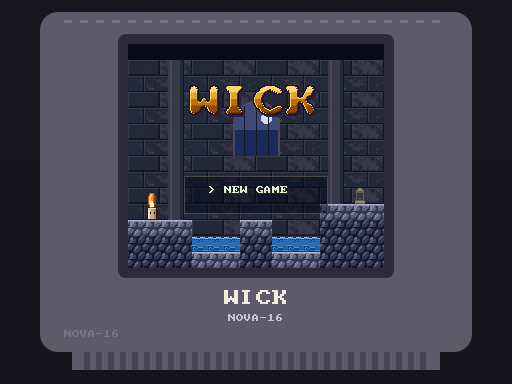
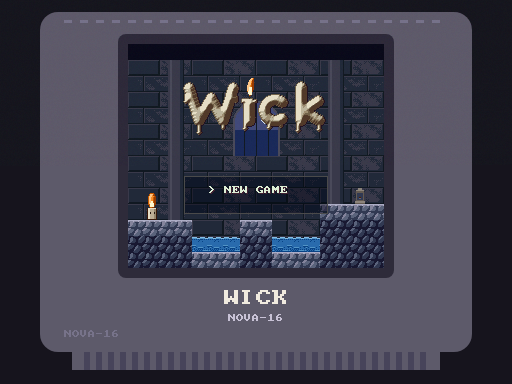
Wick: the title's letters are candle wax
"Wick" in thick round strokes of wax with drips running down; the i is a
candle, with a wick and a flame where its dot would be. A new label.

Claude-Session: https://claude.ai/code/session_01KDMa8M7iB8Yq4tfYxi5Re2

Changed region(s): [[0.3438, 0.1875, 0.6562, 0.3438]]

diff --git a/carts/src/wick/code.js b/carts/src/wick/code.js
@@ -12,7 +12,7 @@ const SHADOW = 1, PANEL = 3, RED = 6, DIM = 10, GREEN = 11, CYAN = 13, GOLD = 14
 const ART = {
   tiles: {},
   sprites: {"bob": {"pal": 2, "size": 16, "tile": 910}, "drip": {"pal": 1, "size": 8, "tile": 902}, "ember": {"pal": 0, "size": 8, "tile": 900}, "fall": {"pal": 0, "size": 32, "tile": 836}, "gear": {"pal": 2, "size": 16, "tile": 908}, "gust": {"pal": 2, "size": 8, "tile": 917}, "jump": {"pal": 0, "size": 32, "tile": 832}, "land": {"pal": 0, "size": 32, "tile": 844}, "link": {"pal": 2, "size": 8, "tile": 916}, "puff": {"pal": 0, "size": 32, "tile": 896}, "rain0": {"pal": 1, "size": 16, "tile": 932}, "rain1": {"pal": 1, "size": 16, "tile": 934}, "run0": {"pal": 0, "size": 32, "tile": 776}, "run1": {"pal": 0, "size": 32, "tile": 780}, "slide": {"pal": 0, "size": 32, "tile": 840}, "snuffer": {"pal": 2, "size": 32, "tile": 960}, "soot": {"pal": 0, "size": 8, "tile": 901}, "steam0": {"pal": 2, "size": 16, "tile": 904}, "steam1": {"pal": 2, "size": 16, "tile": 906}, "wick0": {"pal": 0, "size": 32, "tile": 768}, "wick1": {"pal": 0, "size": 32, "tile": 772}, "wisp": {"pal": 2, "size": 8, "tile": 903}},
-  scenes: {"cells": {"h": 2, "mx": 40, "my": 0, "pal": 1, "w": 24}, "dark": {"h": 1, "mx": 40, "my": 4, "pal": 4, "w": 1}, "logo": {"h": 5, "mx": 0, "my": 30, "pal": 3, "w": 32}, "wall": {"h": 26, "mx": 64, "my": 0, "pal": 2, "w": 32}, "wall2": {"h": 26, "mx": 96, "my": 0, "pal": 2, "w": 32}, "wall3": {"h": 26, "mx": 128, "my": 0, "pal": 2, "w": 32}, "wall4": {"h": 26, "mx": 160, "my": 0, "pal": 2, "w": 32}, "wall5": {"h": 26, "mx": 192, "my": 0, "pal": 2, "w": 32}},
+  scenes: {"cells": {"h": 2, "mx": 40, "my": 0, "pal": 1, "w": 24}, "dark": {"h": 1, "mx": 40, "my": 4, "pal": 4, "w": 1}, "logo": {"h": 8, "mx": 0, "my": 30, "pal": 3, "w": 32}, "wall": {"h": 26, "mx": 64, "my": 0, "pal": 2, "w": 32}, "wall2": {"h": 26, "mx": 96, "my": 0, "pal": 2, "w": 32}, "wall3": {"h": 26, "mx": 128, "my": 0, "pal": 2, "w": 32}, "wall4": {"h": 26, "mx": 160, "my": 0, "pal": 2, "w": 32}, "wall5": {"h": 26, "mx": 192, "my": 0, "pal": 2, "w": 32}},
   colors: {"GLASS": 200},
 };
 // END ART
@@ -513,7 +513,7 @@ function updatePause() {
  * and a lit lantern (scanline). */
 function setLayers() {
   const lg = ART.scenes.logo, dk = ART.scenes.dark, title = state === 'title';
-  if (title) bg(0, { mx: lg.mx, my: lg.my, mw: lg.w, mh: lg.h, x: 0, y: -40, wrap: false, show: true });
+  if (title) bg(0, { mx: lg.mx, my: lg.my, mw: lg.w, mh: lg.h, x: 0, y: -30, wrap: false, show: true });
   else bg(0, { mx: dk.mx, my: dk.my, mw: 1, mh: 1, x: 0, y: 0, wrap: true, show: true });
   blend({ layers: title ? ['overlay'] : ['overlay', 'bg0'], half: true }); // (overlay colours from 192 up, GLASS, are see-through too)
   winmask('bg0', title ? null : { w0: 'in', w1: 'in' });
@@ -670,7 +670,7 @@ function drawRecords() {
 function drawTitle() {
   drawWick();
   if (confirm) {
-    panel(40, 124, 176, 60);
+    panel(28, 124, 200, 60);
     ctxt('START A NEW GAME?', 132, WHITE); ctxt('YOUR ROOMS WILL BE LOST', 144, DIM);
     ['KEEP MY GAME', 'START AGAIN'].forEach((s, i) => txt(`${i === titleSel ? '> ' : '  '}${s}`, 72, 158 + i * 12, i === titleSel ? WHITE : DIM));
     return;

diff --git a/carts/src/wick/art.py b/carts/src/wick/art.py
@@ -30,7 +30,7 @@ WORLDS = {
 }
 castle = art.palette(1, WORLDS[1][0])
 far = art.palette(2, WORLDS[1][1])
-fire = art.palette(3, {'gold': ramp('e0a030', 5), 'edge': '1c1020', 'shade': '2a2040'})
+fire = art.palette(3, {'wax': ramp('e6dcc2', 5), 'flame': ramp('f08a28', 4), 'core': 'fff6c8', 'edge': '241420', 'wick': '3a2a20'})   # the title's letters: candle wax, and the flame on the i
 dark = art.palette(4, {'dark': '0a0c20'})
 wick_pal = art.sprite_palette(0, {'edge': '3a1808', 'flame': ramp('f08a28', 4), 'core': 'fff6c8', 'wax': ramp('e0d8c0', 3), 'eye': '2a1a10', 'soot': ramp('4a4450', 2)})
 
@@ -308,9 +308,48 @@ gust.px[3][6] = haz.steam[2]
 art.sprite('gust', gust, pal=haz, region='spr')                      # a streak of wind (it blows to the right; flipped for left)
 
 # --- The title's lettering, on layer 0 ---
-logo = Img(256, 40)
-t = big_text('WICK', fire.gold, scale=4, outline=fire.edge, shadow=fire.shade)
-logo.blit(t, (256 - t.w) // 2, 1)
+# The letters are candle wax: thick round strokes drawn with a round brush, shaded as if they bulged, their tops a
+# little slumped and wax running down from them in drips; the i is a candle, a wick and a flame where its dot would be.
+LW, LH, BRUSH = 256, 64, 5.2
+def stroke(m, pts, r=BRUSH):
+    """A thick line through the points, with round ends and joints."""
+    for (x0, y0), (x1, y1) in zip(pts, pts[1:]):
+        n = int(max(abs(x1 - x0), abs(y1 - y0)) * 2) + 1
+        for k in range(n + 1):
+            t = k / n; cx, cy = x0 + (x1 - x0) * t, y0 + (y1 - y0) * t
+            for y in range(int(cy - r - 1), int(cy + r + 2)):
+                for x in range(int(cx - r - 1), int(cx + r + 2)):
+                    if 0 <= x < m.w and 0 <= y < m.h and (x - cx) ** 2 + (y - cy) ** 2 <= r * r: m.px[y][x] = 1
+def drip(m, x, y, length, r=2):
+    """Wax that has run down from (x, y): a thin run and the drop at its end."""
+    for yy in range(y, y + length):
+        for xx in range(x - 1, x + 2): m.px[min(m.h - 1, yy)][xx] = 1
+    m.disc(x, min(m.h - 3, y + length), r, 1)
+wax = Img(LW, LH)
+BASE, XH, CAP = 46, 26, 13                                            # the line the letters stand on, the small letters' top, the tall ones'
+stroke(wax, [(61, CAP + 1), (71, BASE), (83, XH - 2), (95, BASE), (105, CAP + 1)])                     # W
+stroke(wax, [(121, XH + 4), (121, BASE)], BRUSH + 0.6)                                                # i: a candle's stub, a little thicker
+stroke(wax, [(147 + 11 * math.cos(a / 10), 36 + 10.5 * math.sin(a / 10)) for a in range(9, 55)])     # c
+stroke(wax, [(173, CAP), (173, BASE)]); stroke(wax, [(190, XH + 1), (175, 37), (191, BASE)])          # k
+for x, y, n in ((58, 20, 7), (71, BASE + 3, 9), (95, BASE + 3, 5), (108, 22, 5), (117, BASE + 2, 6), (125, XH + 8, 9), (141, 42, 11), (153, BASE + 1, 5), (170, BASE + 2, 8), (177, 24, 6), (191, BASE + 3, 6)):
+    drip(wax, x, y, n, 2 if n > 5 else 1)
+for x in range(114, 129):                                             # the i's top: a rim of melted wax, slumped to one side
+    for y in range(XH - 1 + (1 if x > 124 else 0), XH + 3): wax.px[y][x] = 1
+logo = outline_sel(shaded(wax, fire.wax, kind='dome', dither=0.08), fire, colour=fire.edge)
+for y in range(XH - 5, XH - 1): logo.px[y][121] = fire.wick              # its wick
+fl = Img(LW, LH)                                                      # and its flame, leaning a little
+for y in range(4, XH - 3):
+    t = (XH - 4 - y) / 19
+    half = 5.6 * math.sin(min(1, t * 1.25) * math.pi * 0.5) * (1 - t) ** 0.55 + 0.4
+    cx = 121.5 + 2.5 * t * t
+    for x in range(108, 136):
+        if abs(x - cx) <= half: fl.px[y][x] = 1
+fl2 = shaded(fl, fire.flame, kind='dome')
+for y in range(LH):
+    for x in range(LW):
+        if fl2.px[y][x]:
+            t = (XH - 4 - y) / 19
+            logo.px[y][x] = fire.core if 0.08 < t < 0.5 and abs(x - (121.5 + 2.5 * t * t)) < 2.4 - t * 2.2 else fl2.px[y][x]
 art.scene('logo', logo, pal=fire, at=(0, 30))
 
 art.write(sys.argv[1])

diff --git a/docs/carts/wick.md b/docs/carts/wick.md
@@ -389,6 +389,9 @@ after its tenth, which moved the later rooms along); a save of another version i
      how hard each room is for a person, whether the order is right, and whether the Snuffer's 2.5 seconds is the
      right gap. Those wait for play; the numbers are `T` and `H` in `code.js`, the rooms are text, and after a
      room changes `node tests/carts/wick/solve.mjs --record` and `node tools/release.js wick --keep-label`.
+   - **After the release (2026-11-12), the user's note on the title:** its letters were plain gold capitals, oddly
+     spaced. They are candle wax now (`art.py`: thick round strokes, shaded as if they bulged, with drips running
+     down), "Wick" with a small i that is a candle: a wick and a flame where its dot would be.
    - **Results:** 150 checks; `check.js` with no warnings (code 67% of 64 KB, ROM 8.5%, the PNG's payload 41%).
 
 Each step: build it, run `node tools/check.js wick` and `node tools/test.js wick`, write its **Built** and
